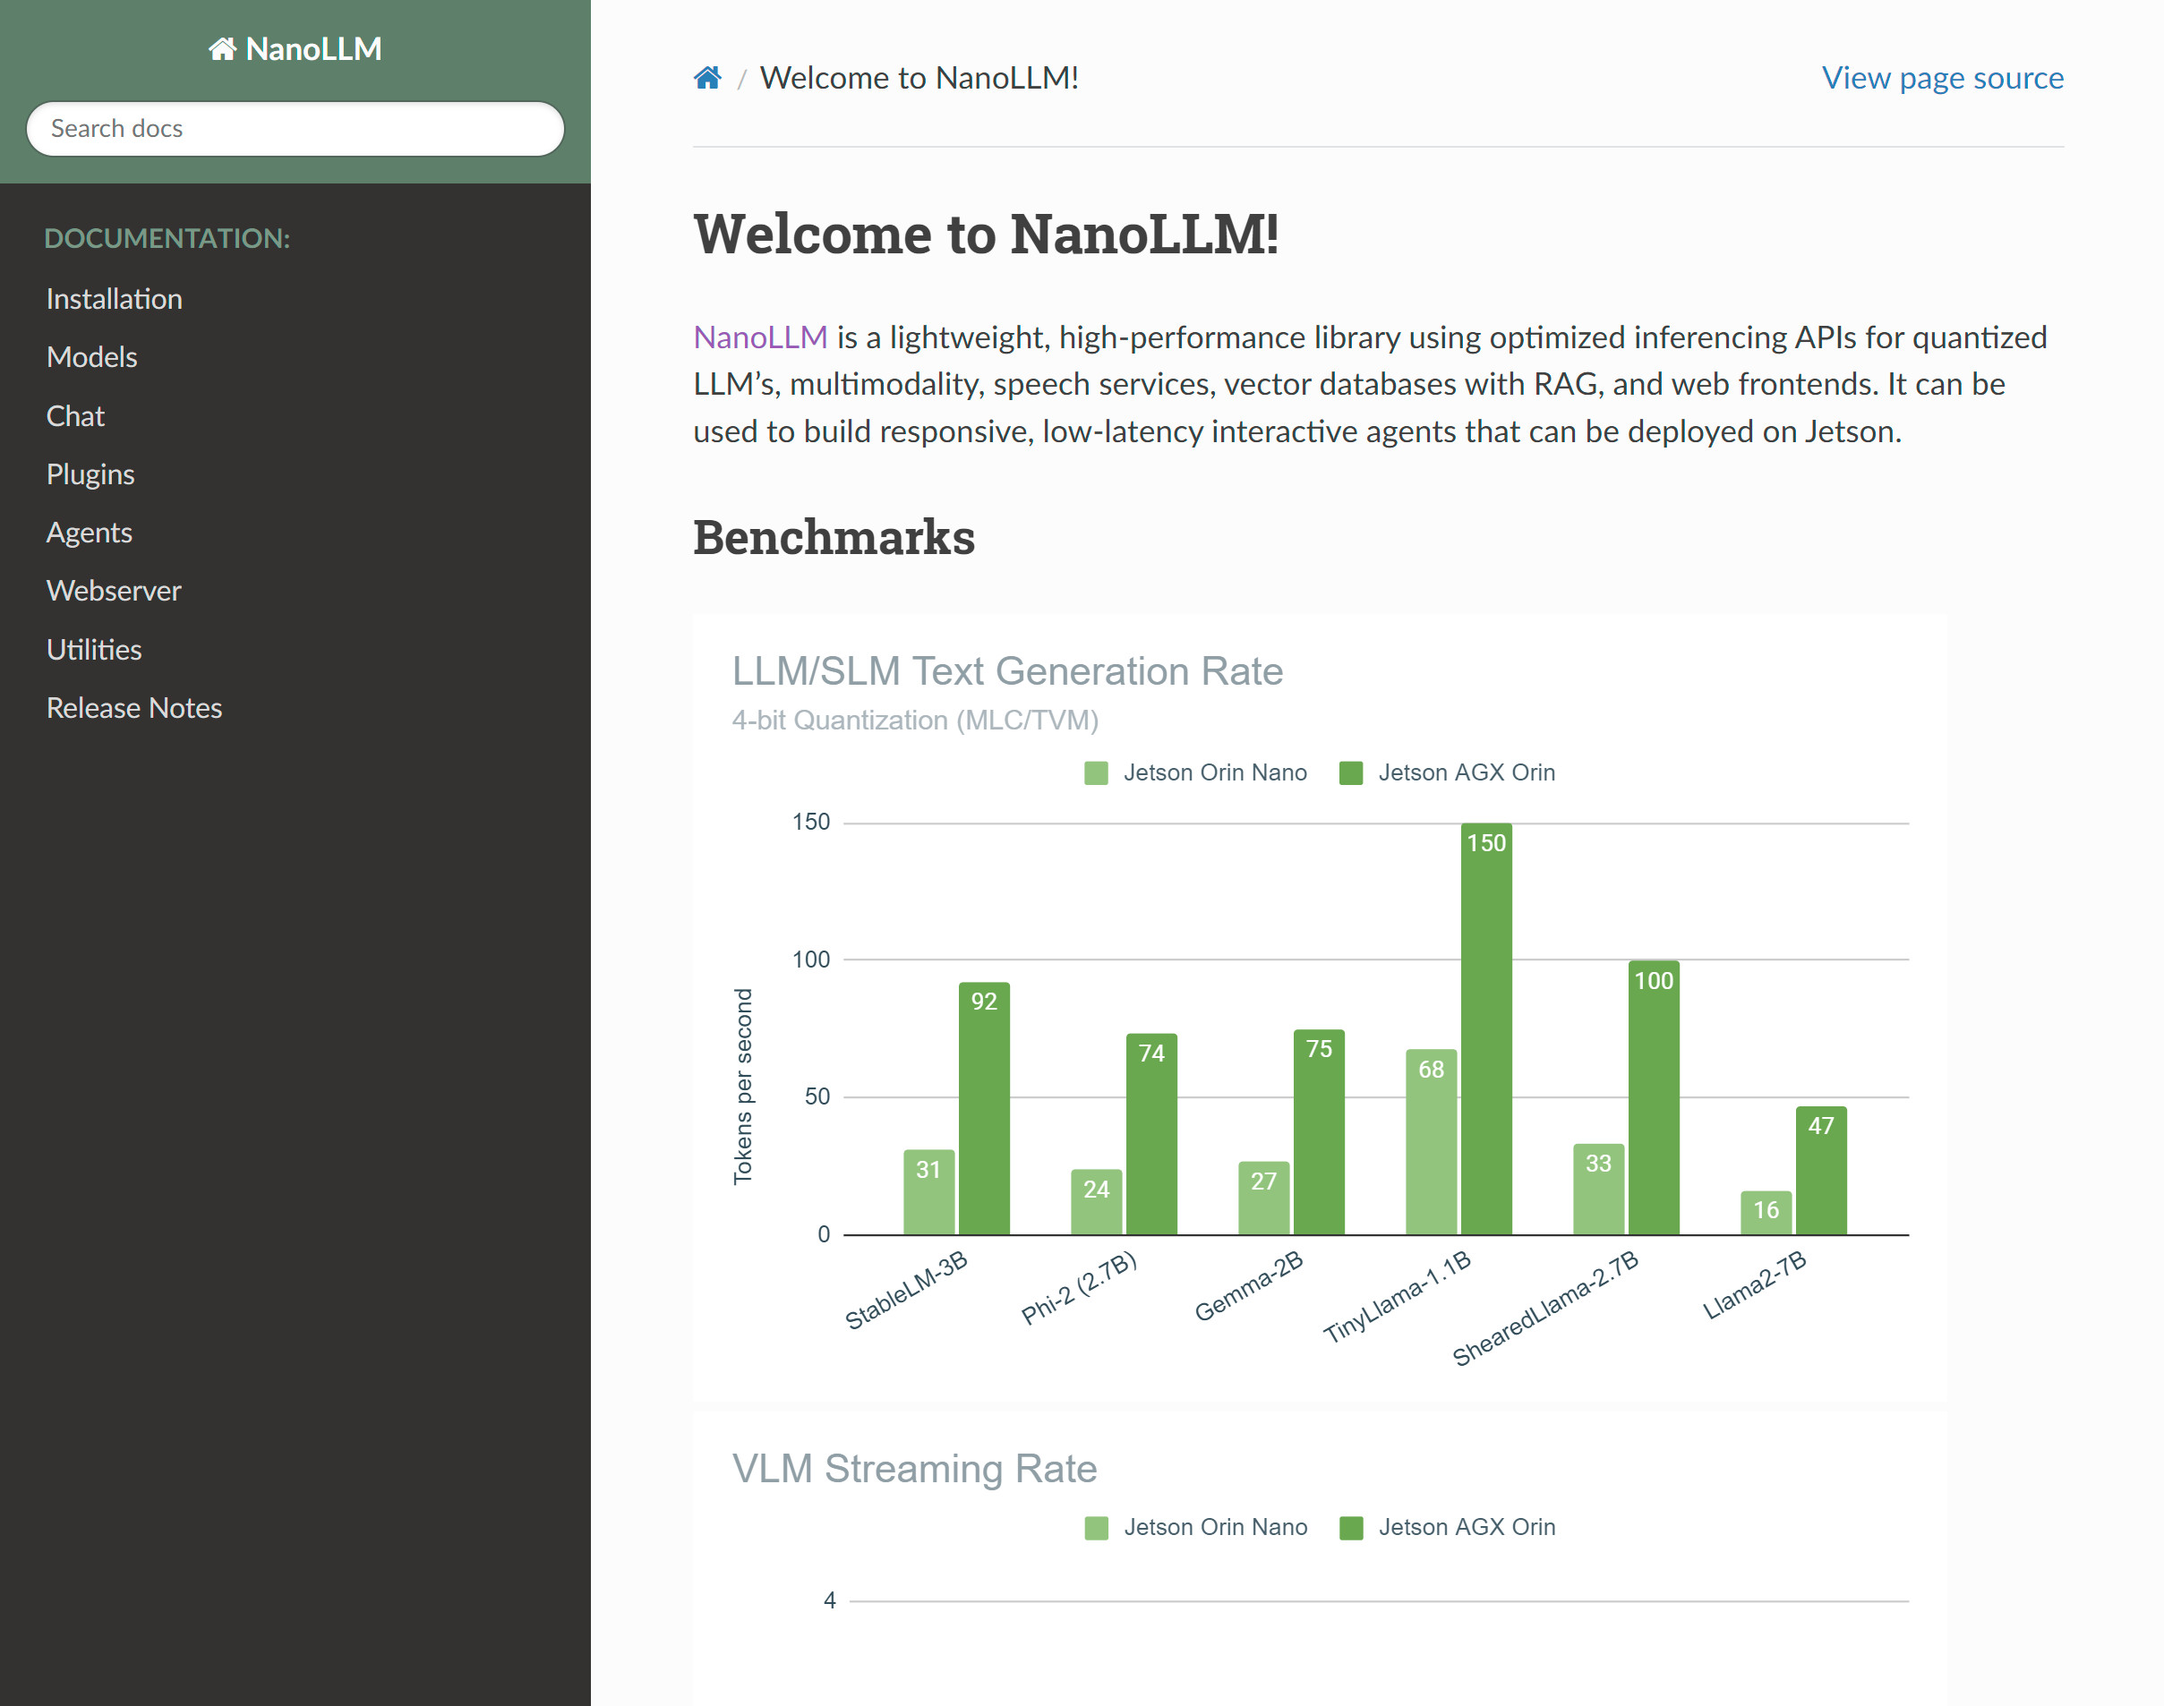
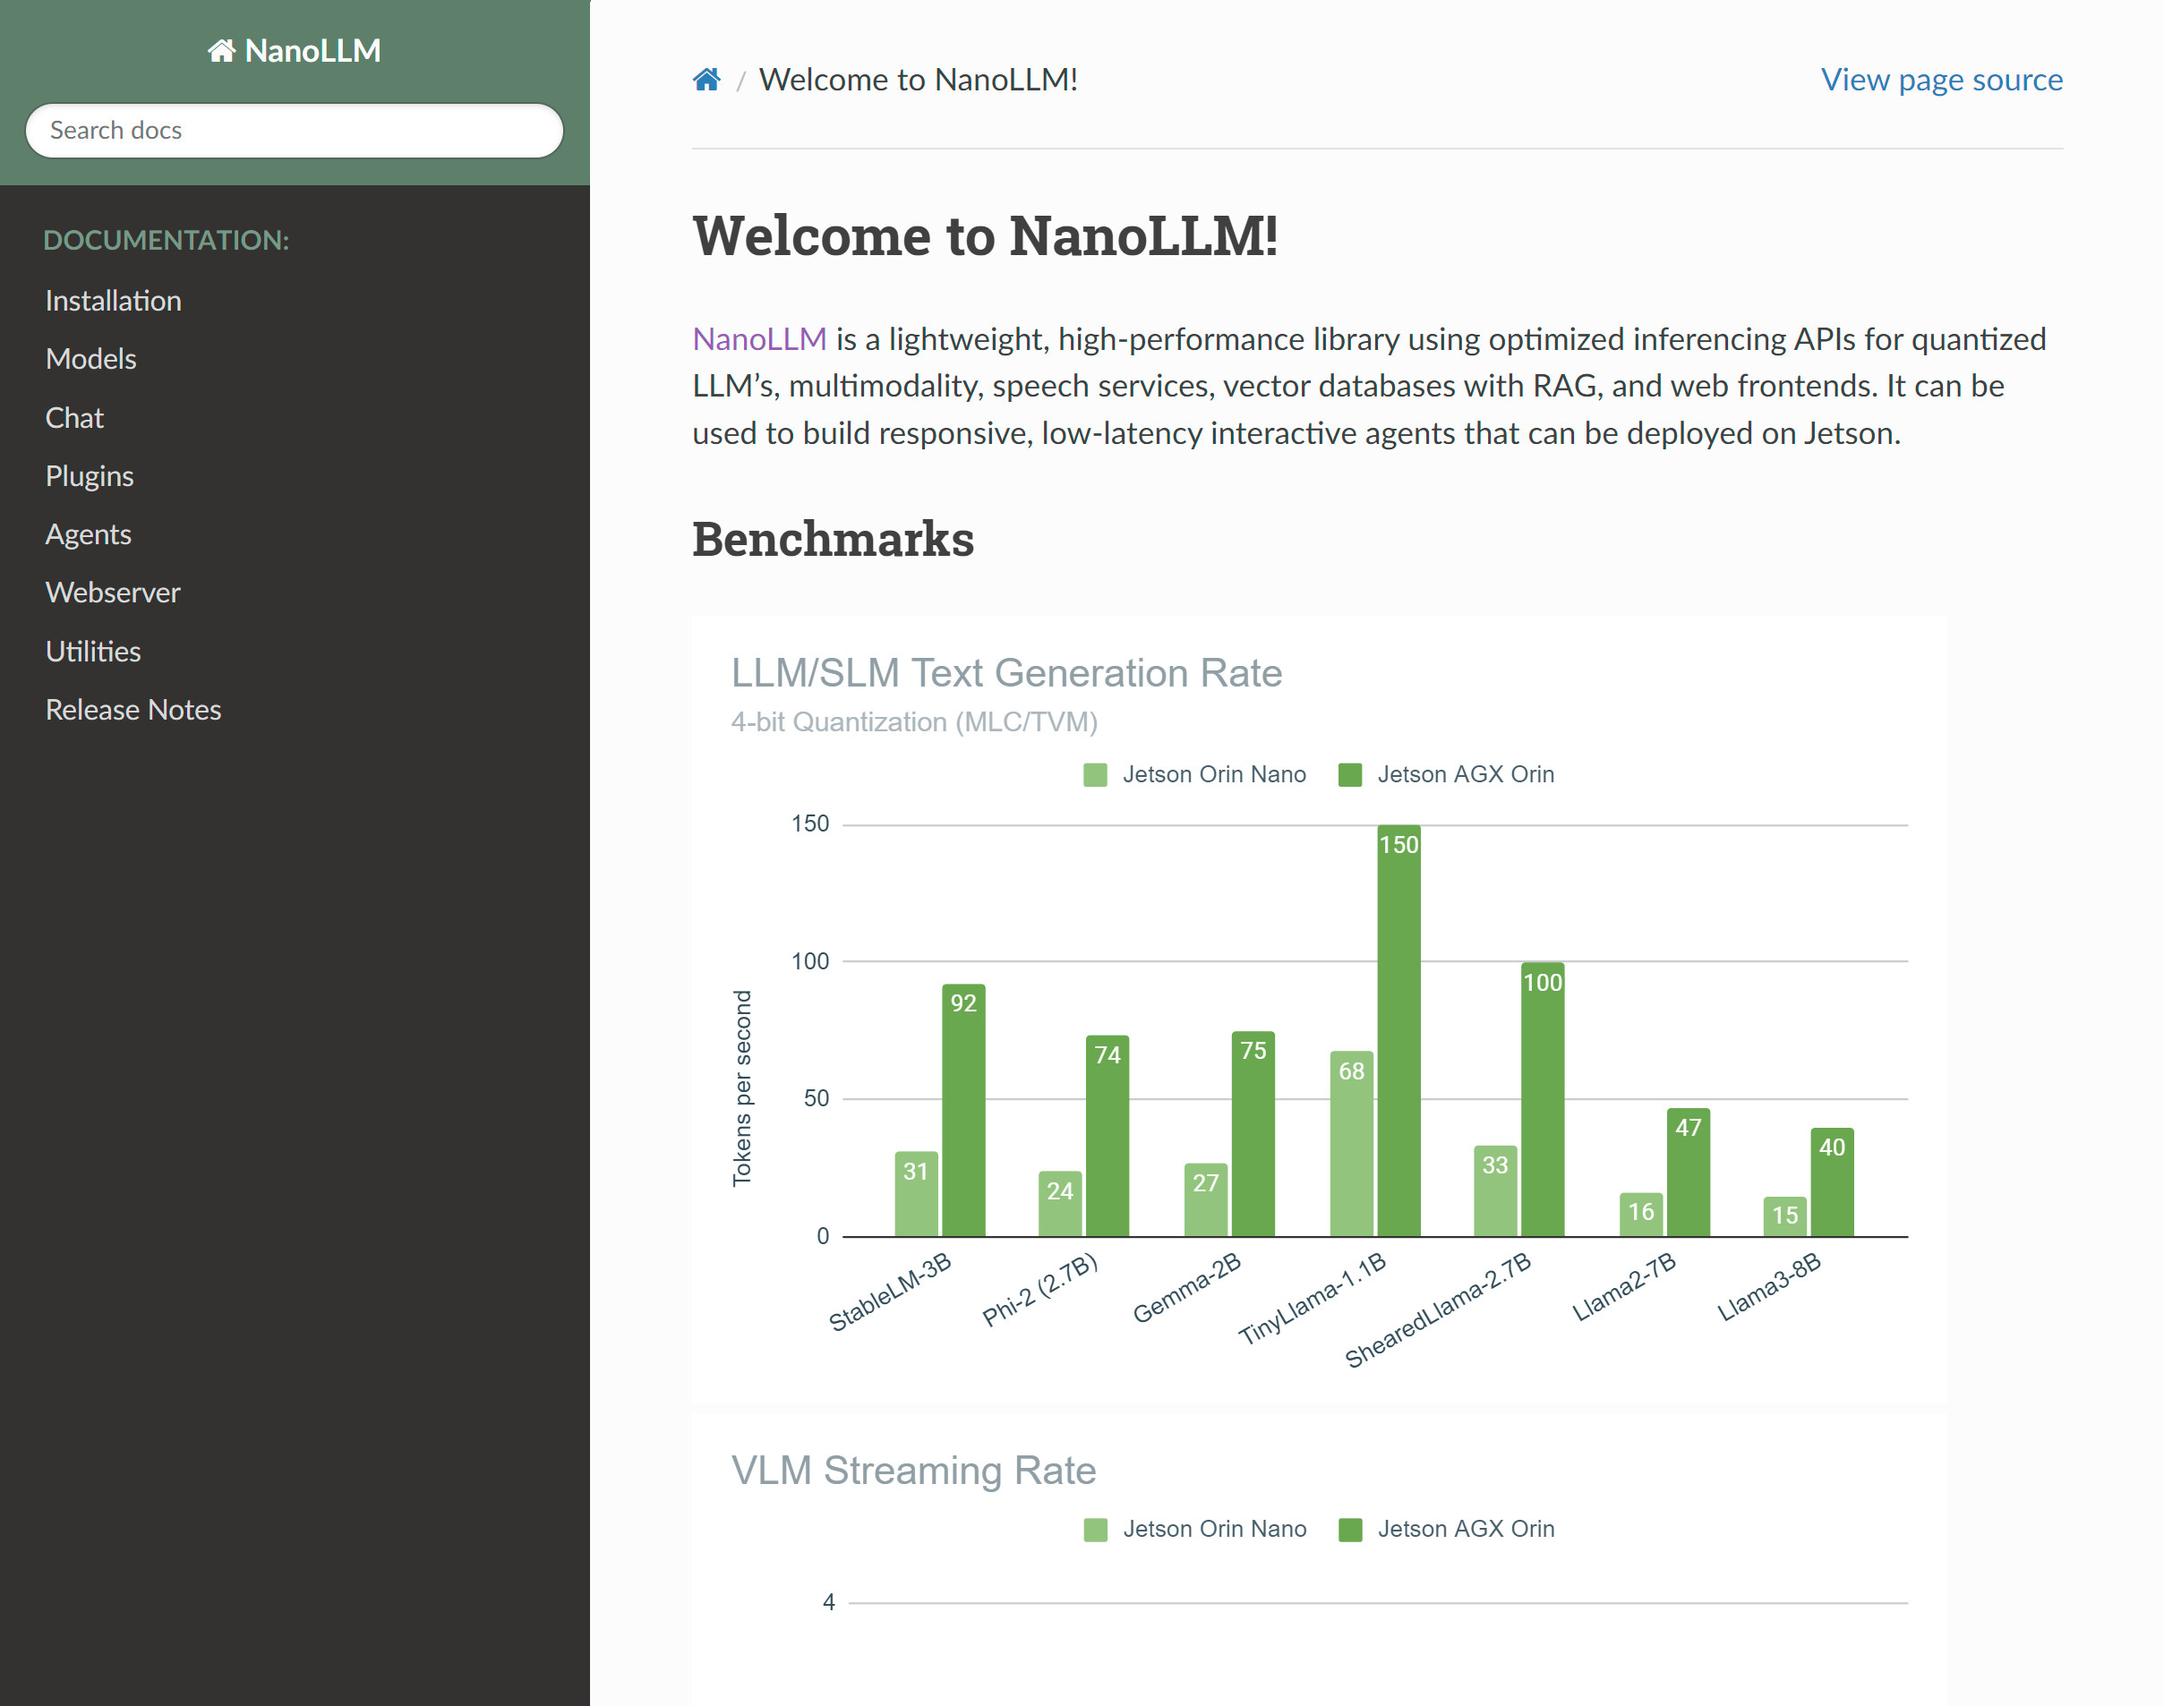
updated examples

diff --git a/docs/overrides/main.html b/docs/overrides/main.html
@@ -2,17 +2,15 @@
 {% extends "base.html" %}
 
 <!-- Announcement bar -->
-{#
 {% block announce %}
   <style>
     .md-announce a { color: #76b900; text-decoration: underline;}
     .md-announce a:focus { color: hsl(82, 100%, 72%);  text-decoration: underline; }
     .md-announce a:hover { color: hsl(82, 100%, 72%); text-decoration: underline;}
   </style>
-    <div class="md-announce">View the <a href="research.html#past-meetings">recording</a> of the last Jetson AI Lab Research Group</a> meeting!  The next meeting is on 4/17 at 9am PST.</div>
+    <div class="md-announce">Meta Llama 3 has been released!  See the latest <a href="tutorial_nano-llm.html">examples</a> and <a href="/benchmarks.html">benchmarks</a> on Orin.</div>
     
 {% endblock %}
-#}
 
 {% block scripts %}
 <script src="//assets.adobedtm.com/5d4962a43b79/814eb6e9b4e1/launch-4bc07f1e0b0b.min.js"></script>

diff --git a/docs/tutorial_nano-llm.md b/docs/tutorial_nano-llm.md
@@ -1,19 +1,19 @@
 # NanoLLM - Optimized LLM Inference
 
-[`NanoLLM`](https://dusty-nv.github.io/NanoLLM) is a lightweight, high-performance library using optimized inferencing APIs for quantized LLM’s, multimodality, speech services, vector databases with RAG, and web frontends. It's used to build many of the responsive, low-latency agents featured on this site.
+[`NanoLLM`](https://dusty-nv.github.io/NanoLLM){:target="_blank"} is a lightweight, high-performance library using optimized inferencing APIs for quantized LLM’s, multimodality, speech services, vector databases with RAG, and web frontends. It's used to build many of the responsive, low-latency agents featured on this site.
 
 <a href="https://dusty-nv.github.io/NanoLLM" target="_blank"><img src="./images/nano_llm_docs.jpg" style="max-width: 50%; box-shadow: 2px 2px 4px rgba(0, 0, 0, 0.4);"></img></a>
 
 It provides <a href="tutorial_api-examples.html#nanollm" target="_blank">similar APIs</a> to HuggingFace, backed by highly-optimized inference libraries and quantization tools:
 
-```python
+```python title="<a href='https://dusty-nv.github.io/NanoLLM' target='_blank'>NanoLLM Reference Documentation</a>"
 from nano_llm import NanoLLM
 
 model = NanoLLM.from_pretrained(
-   "meta-llama/Llama-2-7b-hf",  # HuggingFace repo/model name, or path to HF model checkpoint
-   api='mlc',                   # supported APIs are: mlc, awq, hf
-   api_token='hf_abc123def',    # HuggingFace API key for authenticated models ($HUGGINGFACE_TOKEN)
-   quantization='q4f16_ft'      # q4f16_ft, q4f16_1, q8f16_0 for MLC, or path to AWQ weights
+   "meta-llama/Meta-Llama-3-8B-Instruct",  # HuggingFace repo/model name, or path to HF model checkpoint
+   api='mlc',                              # supported APIs are: mlc, awq, hf
+   api_token='hf_abc123def',               # HuggingFace API key for authenticated models ($HUGGINGFACE_TOKEN)
+   quantization='q4f16_ft'                 # q4f16_ft, q4f16_1, q8f16_0 for MLC, or path to AWQ weights
 )
 
 response = model.generate("Once upon a time,", max_new_tokens=128)
@@ -22,22 +22,44 @@ for token in response:
    print(token, end='', flush=True)
 ```
 
+## Containers
+
+To test a chat session with Llama from the command-line, install [`jetson-containers`](https://github.com/dusty-nv/jetson-containers){:target="_blank"} and run NanoLLM like this:
+
+```
+git clone https://github.com/dusty-nv/jetson-containers
+bash jetson-containers/install.sh
+```
+```	
+jetson-containers run \
+  --env HUGGINGFACE_TOKEN=hf_abc123def \
+  $(autotag nano_llm) \
+  python3 -m nano_llm.chat --api mlc \
+    --model meta-llama/Meta-Llama-3-8B-Instruct \
+    --prompt "Can you tell me a joke about llamas?"
+```
+
+If you haven't already, request access to the [Llama models](https://huggingface.co/meta-llama){:target="_blank"} on HuggingFace and substitute your account's API token above.
+
 ## Resources
 
 Here's an index of the various tutorials & examples using NanoLLM on Jetson AI Lab:
 
 |      |                     |
 | :---------- | :----------------------------------- |
-| **[Benchmarks](./benchmarks.md){:target="_blank"}** | Benchmarking results for LLM, SLM, VLM using MLC/TVM backend |
-| **[API Examples](./tutorial_api-examples.md#nanollm){:target="_blank"}** | Python code examples for completion and multi-turn chat |
-| **[Llamaspeak](./tutorial_llamaspeak.md){:target="_blank"}** | Talk verbally with LLMs using low-latency ASR/TTS speech models |
+| **[Benchmarks](./benchmarks.md){:target="_blank"}** | Benchmarking results for LLM, SLM, VLM using MLC/TVM backend. |
+| **[API Examples](./tutorial_api-examples.md#nanollm){:target="_blank"}** | Python code examples for chat, completion, and multimodal. |
+| **[Documentation](https://dusty-nv.github.io/NanoLLM){:target="_blank"}** | Reference documentation for the NanoLLM model and agent APIs. |
+| **[Llamaspeak](./tutorial_llamaspeak.md){:target="_blank"}** | Talk verbally with LLMs using low-latency ASR/TTS speech models. |
 | **[Small LLM (SLM)](./tutorial_slm.md){:target="_blank"}** | Focus on language models with reduced footprint (7B params and below) |
-| **[Live LLaVA](./tutorial_live-llava.md){:target="_blank"}** | Realtime live-streaming vision/language models on recurring prompts |
-| **[Nano VLM](./tutorial_nano-vlm.md){:target="_blank"}** | Efficient multimodal pipeline with one-shot RAG support |
+| **[Live LLaVA](./tutorial_live-llava.md){:target="_blank"}** | Realtime live-streaming vision/language models on recurring prompts. |
+| **[Nano VLM](./tutorial_nano-vlm.md){:target="_blank"}** | Efficient multimodal pipeline with one-shot image tagging and RAG support. |
 
 
 <div><iframe width="500" height="280" src="https://www.youtube.com/embed/UOjqF3YCGkY" style="display: inline-block;" title="YouTube video player" frameborder="0" allow="accelerometer; autoplay; clipboard-write; encrypted-media; gyroscope; picture-in-picture; web-share" allowfullscreen></iframe>
 <iframe width="500" height="280" src="https://www.youtube.com/embed/8Eu6zG0eEGY" style="display: inline-block;" title="YouTube video player" frameborder="0" allow="accelerometer; autoplay; clipboard-write; encrypted-media; gyroscope; picture-in-picture; web-share" allowfullscreen></iframe>
 </div>
-  
+<div><iframe width="500" height="280" src="https://www.youtube.com/embed/hswNSZTvEFE" style="display: inline-block;" title="YouTube video player" frameborder="0" allow="accelerometer; autoplay; clipboard-write; encrypted-media; gyroscope; picture-in-picture; web-share" allowfullscreen></iframe>
+<iframe width="500" height="280" src="https://www.youtube.com/embed/wZq7ynbgRoE" style="display: inline-block;" title="YouTube video player" frameborder="0" allow="accelerometer; autoplay; clipboard-write; encrypted-media; gyroscope; picture-in-picture; web-share" allowfullscreen></iframe>
+</div>  
 

diff --git a/docs/tutorial_api-examples.md b/docs/tutorial_api-examples.md
@@ -20,7 +20,14 @@ It's good to know the code for generating text with LLM inference, and ancillary
 
         - `22GB` for `l4t-text-generation` container image
         - Space for models (`>10GB`)
-		 
+	
+    4. Clone and setup [`jetson-containers`](https://github.com/dusty-nv/jetson-containers/blob/master/docs/setup.md){:target="_blank"}:
+    
+		```bash
+		git clone https://github.com/dusty-nv/jetson-containers
+		bash jetson-containers/install.sh
+		``` 
+		
 ## Transformers
 
 The HuggingFace Transformers API is the de-facto API that models are released for, often serving as the reference implementation.  It's not terribly fast, but it does have broad model support, and also supports quantization (AutoGPTQ, AWQ).  This uses streaming:
@@ -80,12 +87,12 @@ The [`NanoLLM`](https://dusty-nv.github.io/NanoLLM) library uses the optimized M
 
 <a href="benchmarks.html"><iframe width="600" height="371" seamless frameborder="0" scrolling="no" src="https://docs.google.com/spreadsheets/d/e/2PACX-1vTJ9lFqOIZSfrdnS_0sa2WahzLbpbAbBCTlS049jpOchMCum1hIk-wE_lcNAmLkrZd0OQrI9IkKBfGp/pubchart?oid=2126319913&amp;format=interactive"></iframe></a>
 
-```python
+```python title="<a href='https://dusty-nv.github.io/NanoLLM' target='_blank'>> NanoLLM Reference Documentation</a>"
 from nano_llm import NanoLLM, ChatHistory, ChatTemplates
 
 # load model
 model = NanoLLM.from_pretrained(
-    model='meta-llama/Llama-2-7b-chat-hf', 
+    model='meta-llama/Meta-Llama-3-8B-Instruct', 
     quantization='q4f16_ft', 
     api='mlc'
 )
@@ -127,10 +134,12 @@ while True:
 This [example](https://github.com/dusty-nv/NanoLLM/blob/main/nano_llm/chat/example.py){:target="_blank"} keeps an interactive chat running with text being entered from the terminal.  You can start it like this:
 
 ```python
-jetson-containers run $(autotag nano_llm) \
+jetson-containers run \
+  --env HUGGINGFACE_TOKEN=hf_abc123def \
+  $(autotag nano_llm) \
     python3 -m nano_llm.chat.example
 ```
 
-Or for easy editing from the host device, copy the source into your own script and mount it into the container with the `--volume` flag.
+Or for easy editing from the host device, copy the source into your own script and mount it into the container with the `--volume` flag.  And for authenticated models, request access through HuggingFace (like with [Llama](https://huggingface.co/meta-llama){:target="_blank"}) and substitute your account's API token above.
 
  
